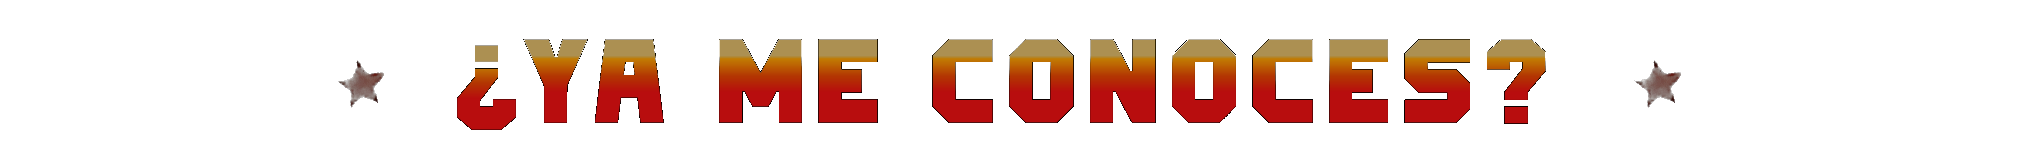
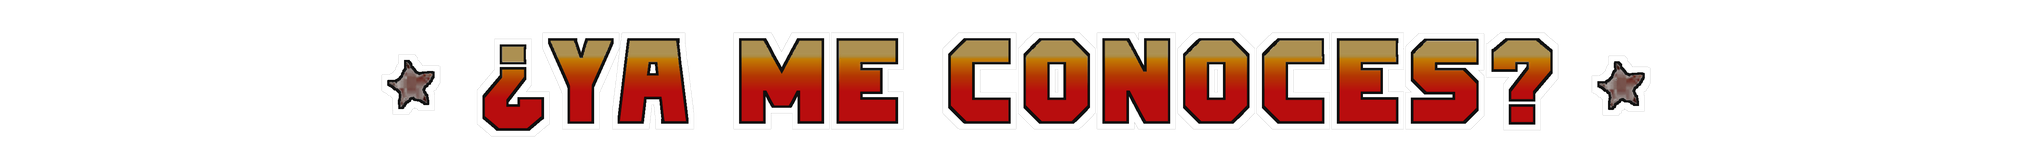
🐺 Compu divisores: letras suaves sin zig-zag — reconstruir 4 divtext (proximos/echame/conoces/merch) desde la versión móvil alta-res, mismo tamaño de letra + contorno grueso de estrellas; cache-buster v8

Changed region(s): [[0.155, 0.2083, 0.8371, 0.7738]]

diff --git a/preview/compu/index.html b/preview/compu/index.html
@@ -90,7 +90,7 @@
   <a class="menu-link ml-echame"  href="#sec-echame"   style="left:70.2%;top:24.2%;font-size:1.9cqw">ÉCHAME UN<br>GRITO</a>
   <a class="menu-link ml-fotitos" href="#sec-conoces"  style="left:33.7%;top:39.6%;font-size:1.5cqw">FOTITOS</a>
 </div></section>
-<div class="dmarquee" role="img" aria-label="Próximos Shows"><div class="dtrack"><img src="../sitio/assets/compu/divtext-proximos.png?v=7" alt="Próximos Shows"><img src="../sitio/assets/compu/divtext-proximos.png?v=7" alt="" aria-hidden="true"></div></div>
+<div class="dmarquee" role="img" aria-label="Próximos Shows"><div class="dtrack"><img src="../sitio/assets/compu/divtext-proximos.png?v=8" alt="Próximos Shows"><img src="../sitio/assets/compu/divtext-proximos.png?v=8" alt="" aria-hidden="true"></div></div>
 <section class="dsec reveal" id="sec-proximos"><img class="bg" src="../sitio/assets/compu/bg-proximos.webp?v=8" alt="proximos"><div class="ovl"><div class="ct" style="left:3.73%;top:93.97%;font-size:2.46cqw;color:#f29501;font-family:'DK Drop Dead Gorgeous',cursive;font-weight:400;">Extras</div>
 <div class="ct" style="left:56.85%;top:16.24%;font-size:3.59cqw;color:#63ceb2;font-family:'eds-market-bold-slant',sans-serif;font-weight:400;">Especiales del mes</div>
 <div class="ct" style="left:55.61%;top:25.86%;font-size:3.10cqw;color:#f22b2a;font-family:'eds-market-bold-slant',sans-serif;font-weight:400;">Niu jork</div>
@@ -156,13 +156,13 @@
 <div class="ct" style="left:15.59%;top:40.67%;font-size:2.36cqw;color:#63ceb2;font-family:'swiss-721-bt',sans-serif;font-weight:500;">  MONTERREY</div>
 <div class="ct" style="left:12.65%;top:25.51%;font-size:2.49cqw;color:#63ceb2;font-family:'Poppins',sans-serif;font-weight:600;">07</div>
 <div class="ct" style="left:16.86%;top:25.39%;font-size:2.36cqw;color:#63ceb2;font-family:'swiss-721-bt',sans-serif;font-weight:500;">PUEBLA</div></div></section>
-<div class="dmarquee" role="img" aria-label="Échame un grito"><div class="dtrack"><img src="../sitio/assets/compu/divtext-echame.png?v=7" alt="Échame un grito"><img src="../sitio/assets/compu/divtext-echame.png?v=7" alt="" aria-hidden="true"></div></div>
+<div class="dmarquee" role="img" aria-label="Échame un grito"><div class="dtrack"><img src="../sitio/assets/compu/divtext-echame.png?v=8" alt="Échame un grito"><img src="../sitio/assets/compu/divtext-echame.png?v=8" alt="" aria-hidden="true"></div></div>
 <section class="dsec reveal" id="sec-echame"><img class="bg" src="../sitio/assets/compu/bg-echame.webp?v=8" alt="echame"><div class="ovl"><div class="ct" style="left:44.08%;top:52.70%;font-size:1.62cqw;color:#333333;font-family:'Permanent Marker',cursive;font-weight:400;">222</div>
 <div class="ct" style="left:46.88%;top:52.55%;font-size:1.62cqw;color:#333333;font-family:'Permanent Marker',cursive;font-weight:400;">6</div>
 <div class="ct" style="left:47.91%;top:52.70%;font-size:1.62cqw;color:#333333;font-family:'Permanent Marker',cursive;font-weight:400;">740</div>
 <div class="ct" style="left:50.51%;top:52.56%;font-size:1.62cqw;color:#333333;font-family:'Permanent Marker',cursive;font-weight:400;">2</div>
 <div class="ct" style="left:51.60%;top:52.70%;font-size:1.62cqw;color:#333333;font-family:'Permanent Marker',cursive;font-weight:400;">85</div></div></section>
-<div class="dmarquee" role="img" aria-label="¿Ya me conoces?"><div class="dtrack"><img src="../sitio/assets/compu/divtext-conoces.png?v=7" alt="¿Ya me conoces?"><img src="../sitio/assets/compu/divtext-conoces.png?v=7" alt="" aria-hidden="true"></div></div>
+<div class="dmarquee" role="img" aria-label="¿Ya me conoces?"><div class="dtrack"><img src="../sitio/assets/compu/divtext-conoces.png?v=8" alt="¿Ya me conoces?"><img src="../sitio/assets/compu/divtext-conoces.png?v=8" alt="" aria-hidden="true"></div></div>
 <section class="dsec reveal" id="sec-conoces"><img class="bg" src="../sitio/assets/compu/bg-conoces.webp?v=8" alt="conoces"><div class="ovl"><div class="ct" style="left:39.12%;top:11.38%;font-size:2.89cqw;color:#f22b2a;font-family:'swiss-721-bt',sans-serif;font-weight:400;">P</div>
 <div class="ct" style="left:38.66%;top:18.61%;font-size:2.89cqw;color:#f22b2a;font-family:'swiss-721-bt',sans-serif;font-weight:400;">A</div>
 <div class="ct" style="left:38.38%;top:25.84%;font-size:2.89cqw;color:#f22b2a;font-family:'swiss-721-bt',sans-serif;font-weight:400;">R</div>
@@ -221,7 +221,7 @@
 <div class="ct" style="left:87.47%;top:7.08%;font-size:2.17cqw;color:#241a1a;font-family:'stratum-2-web',monospace;font-weight:400;">o</div></div></section>
 <div class="dmarquee" role="img" aria-label="Collabs Destacadas"><div class="dtrack"><img src="../sitio/assets/compu/divtext-collabs.png?v=7" alt="Collabs Destacadas"><img src="../sitio/assets/compu/divtext-collabs.png?v=7" alt="" aria-hidden="true"></div></div>
 <section class="dsec reveal" id="sec-collabs"><img class="bg" src="../sitio/assets/compu/bg-collabs.webp?v=8" alt="collabs"></section>
-<div class="dmarquee" role="img" aria-label="La Merch"><div class="dtrack"><img src="../sitio/assets/compu/divtext-merch.png?v=7" alt="La Merch"><img src="../sitio/assets/compu/divtext-merch.png?v=7" alt="" aria-hidden="true"></div></div>
+<div class="dmarquee" role="img" aria-label="La Merch"><div class="dtrack"><img src="../sitio/assets/compu/divtext-merch.png?v=8" alt="La Merch"><img src="../sitio/assets/compu/divtext-merch.png?v=8" alt="" aria-hidden="true"></div></div>
 <section class="dsec reveal" id="sec-merch"><img class="bg" src="../sitio/assets/compu/bg-merch.webp?v=8" alt="merch"><div class="ovl"><div class="ct" style="left:80.47%;top:26.40%;font-size:2.46cqw;color:#1a1a1a;font-family:'swiss-721-bt',sans-serif;font-weight:700;">...........................</div>
 <div class="ct" style="left:81.51%;top:30.98%;font-size:2.46cqw;color:#1a1a1a;font-family:'swiss-721-bt',sans-serif;font-weight:700;">.........................</div>
 <div class="ct" style="left:79.53%;top:36.75%;font-size:2.50cqw;color:#1a1a1a;font-family:'swiss-721-bt',sans-serif;font-weight:700;">...........................</div>
